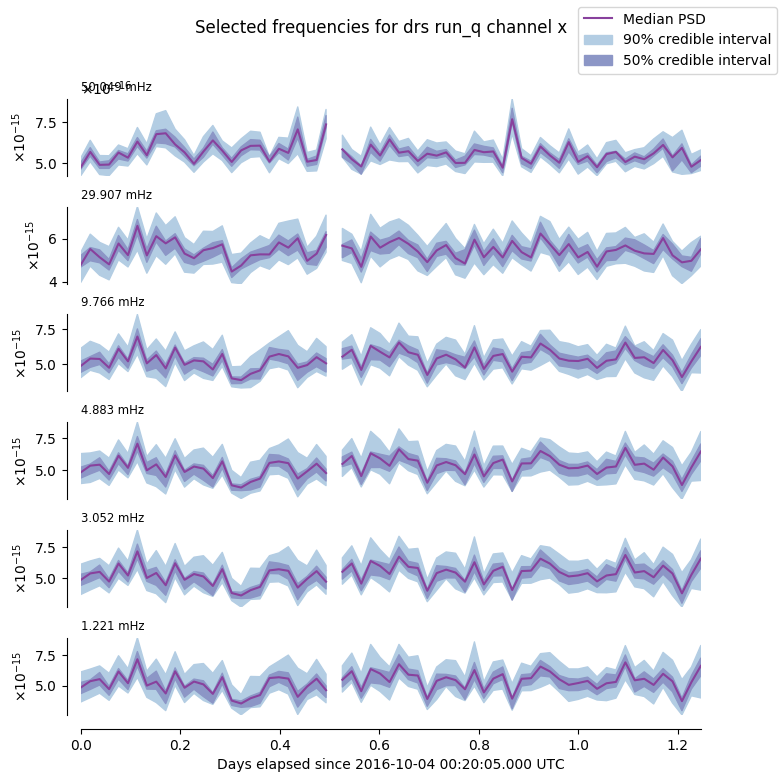
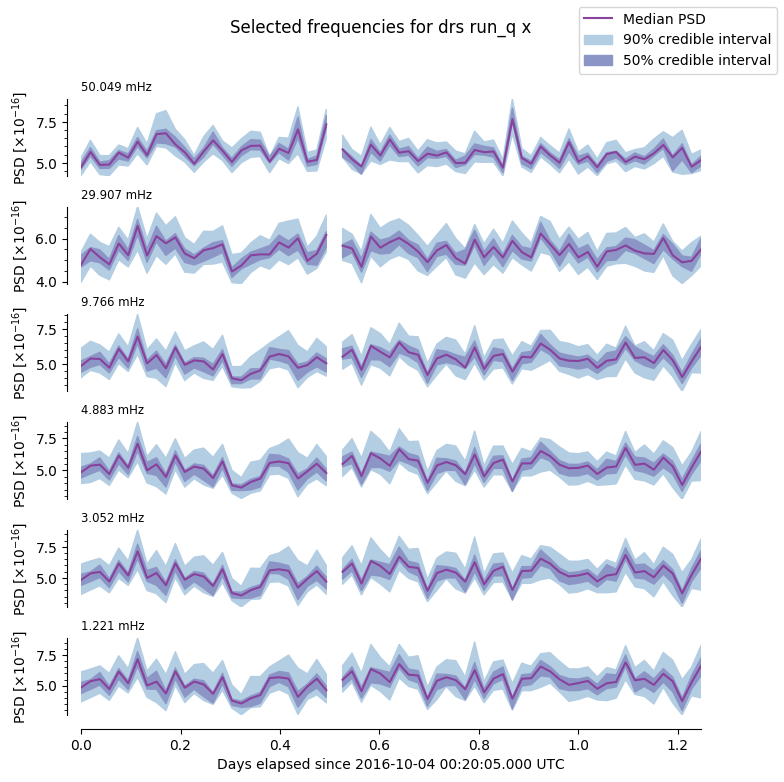
fixed issues with frequency slicer

diff --git a/src/plot.py b/src/plot.py
@@ -138,9 +138,9 @@ def freq_slice(fig, ax, run, freq, summary, ylim=None):
     fslice = summary.xs(freq, level='FREQ')
     # Scale PSD
     med = fslice['MEDIAN'].median()
-    exp = int(np.log10(med))
-    ylabel = r'$\times 10^{%s}$' % exp
-    summary = summary / (10 ** exp)
+    exp = int(np.floor(np.log10(med)))
+    ylabel = r'PSD [$\times 10^{%s}$]' % exp
+    fslice = fslice / (10 ** exp)
     # Date stuff
     days_elapsed = run.gps2day(fslice.index)
     # Plot 90% credible interval
@@ -157,9 +157,11 @@ def freq_slice(fig, ax, run, freq, summary, ylim=None):
         label='50% credible interval')
     # Plot median
     ax.plot(days_elapsed, fslice['MEDIAN'], label='Median PSD', color='#88419d')
+    
     # Vertical scale
     if not ylim:
         # Smart-ish limits
+        med = fslice['MEDIAN'].median()
         std = fslice['MEDIAN'].std()
         hi = min(
             2 * (fslice['CI_90_HI'].quantile(0.95) - med), 
@@ -173,8 +175,12 @@ def freq_slice(fig, ax, run, freq, summary, ylim=None):
     # Vertical axis limits
     ax.set_ylim(ylim)
     ax.spines['left'].set_bounds(ylim[0], ylim[1])
+    
     # Vertical axis label
     ax.set_ylabel(ylabel)
+    # Vertical axis tick labels
+    ax.yaxis.set_major_formatter(tkr.FormatStrFormatter('%.1f'))
+    ax.yaxis.set_minor_locator(tkr.AutoMinorLocator())
     # Horizontal axis limits
     ax.set_xlim((min(days_elapsed), max(days_elapsed)))
     ax.spines['bottom'].set_bounds(min(days_elapsed), max(days_elapsed))
@@ -270,12 +276,25 @@ def save_freq_grid(run, channel, plot_file, show=False,
     if show: plt.show()
     else: plt.close()
 
-def save_freq_slices(run, channel, plot_file, show=False,
-        frequencies=[1e-3, 3e-3, 5e-3, 1e-2, 3e-2, 5e-2]):
-    frequencies.sort(reverse=True)
+def save_freq_slices(run, channel, frequencies, plot_file=None, show=False):
+    '''
+    Input
+    -----
+      run : utils.Run object
+      channel : string, channel name
+      frequencies : 1D Numpy array, approximate frequencies to slice along
+      plot_file : string, path to plot output file if any
+      show : whether to display figure
+    '''
+    # Plot highest frequency on top
+    frequencies = np.flip(np.sort(frequencies))
+    # Set up figure, axes
     fig, axes = plt.subplots(len(frequencies), sharex=True, figsize=(8, 8))
-    fig.suptitle(f'Selected frequencies for {run.mode} {run.name} channel {channel}')
+    fig.suptitle(f'Selected frequencies for {run.mode} {run.name} {channel}')
+    fig.subplots_adjust(hspace=0.4)
+    # Isolate given channel
     df = run.psd_summary.loc[channel]
+    
     # Subplots
     spine_pad = 10
     for i, ax in enumerate(axes):
@@ -286,25 +305,19 @@ def save_freq_slices(run, channel, plot_file, show=False,
         ax.spines['top'].set_visible(False)
         ax.spines['bottom'].set_visible(False)
         ax.tick_params(bottom=False)
-        ax.yaxis.offsetText.set_visible(False)
+        # Remove exponents
         ax.spines['left'].set_position(('outward', spine_pad))
-        # Vertical axis label on first plot in each row
-        #ax.set_ylabel('PSD')
-        #ax.yaxis.set_label_text('PSD ' + formatter.get_offset())
-    # Legend
-    formatter = tkr.ScalarFormatter(useMathText=True)
-    axes[0].yaxis.offsetText.set_visible(True)
-    axes[0].yaxis.set_major_formatter(formatter)
+    
+    # Horizontal axis for bottom plot
     ax.set_xlabel(f'Days elapsed since {run.start_date} UTC')
     ax.spines['bottom'].set_visible(True)
     ax.spines['bottom'].set_position(('outward', spine_pad))
     ax.tick_params(bottom=True)
-    fig.subplots_adjust(hspace=0.4)
-    #ax.xaxis.set_minor_locator(tkr.AutoMinorLocator())
+    # Make legend
     handles, labels = ax.get_legend_handles_labels()
     fig.legend(handles, labels)
-    #fig.tight_layout(w_pad=-1.0, rect=[0, 0, 1, 0.92])
-    plt.savefig(plot_file, bbox_inches='tight')
+    # Save / display figure
+    if plot_file: plt.savefig(plot_file, bbox_inches='tight')
     if show: plt.show()
     else: plt.close()
 

diff --git a/src/psd.py b/src/psd.py
@@ -139,7 +139,7 @@ def get_exact_freq(summary, approx_freq):
     '''
     gps_times = list(summary.index.unique(level='TIME'))
     freqs = list(summary.xs(gps_times[0]).index)
-    freq_index = round(approx_freq / (max(freqs) - min(freqs)) * len(freqs))
+    freq_index = int(round(approx_freq / (max(freqs) - min(freqs)) * len(freqs)))
     return freqs[freq_index]
 
 def main():
@@ -202,8 +202,9 @@ def main():
         channel = run.channels[0]
         i = 0
         # Frequency slices
+        plot_frequencies = np.array([1e-3, 3e-3, 5e-3, 1e-2, 3e-2, 5e-2])
         fslice_file = os.path.join(plot_dir, f'fslice{i}.png')
-        plot.save_freq_slices(run, channel, fslice_file)
+        plot.save_freq_slices(run, channel, plot_frequencies, plot_file=fslice_file)
         
         '''
         p = utils.Progress(run.channels, 'Plotting...')
